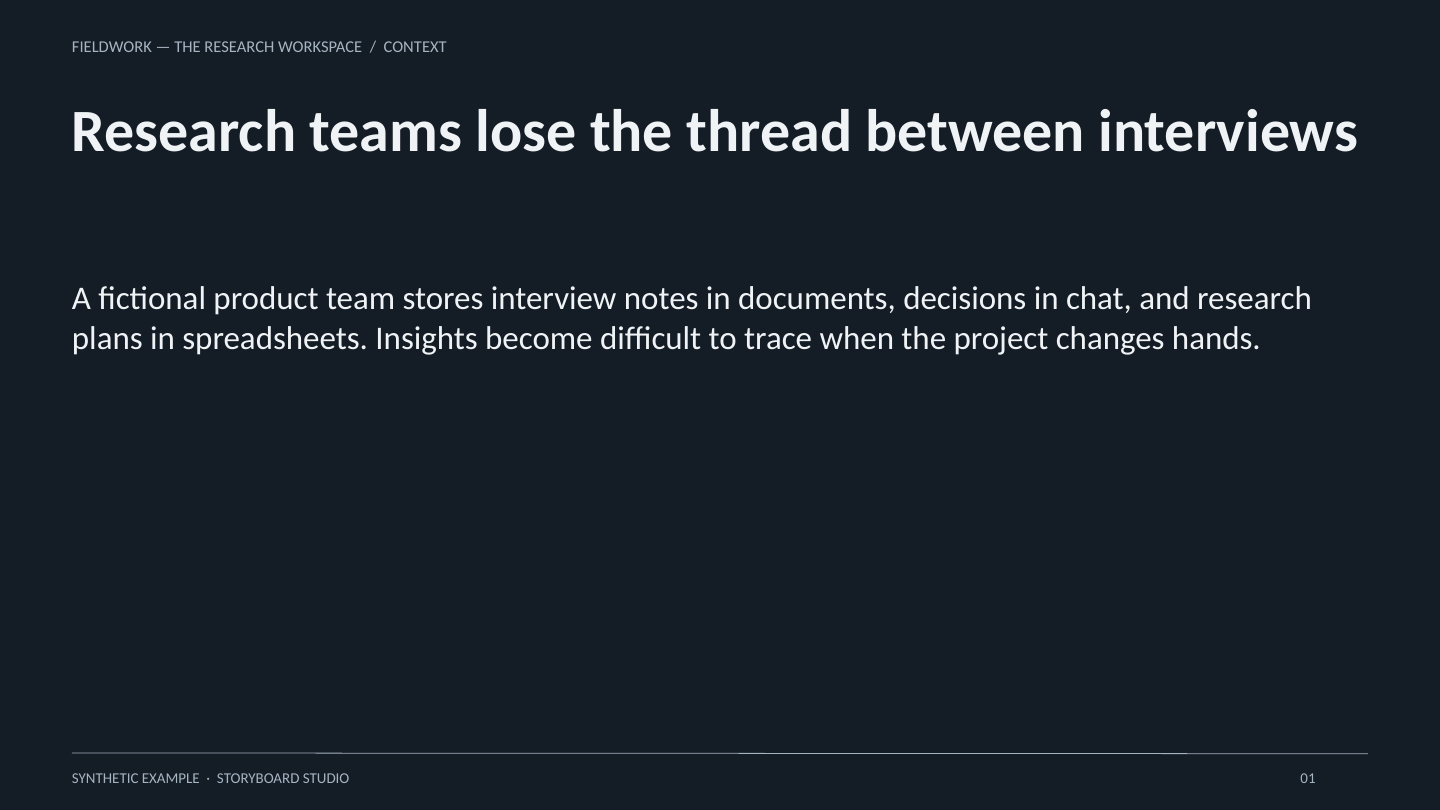
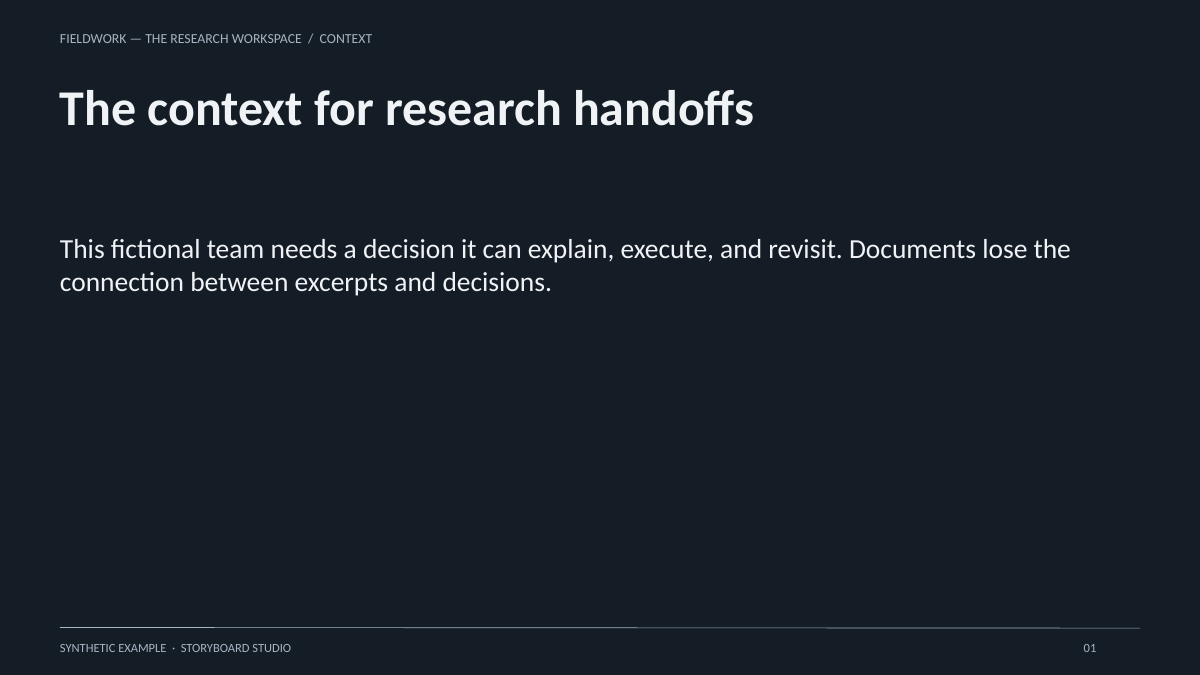
gallery: add verified native startup-pitch deck

diff --git a/gallery/native/startup-pitch/brief.md b/gallery/native/startup-pitch/brief.md
@@ -1,0 +1,35 @@
+# Fieldwork — the research workspace
+Audience: Seed investment committee
+Objective: Approve a bounded next step for research handoffs
+Owner: Research lead
+Next action: Approve the pilot and inspect the review evidence
+Theme: midnight
+Synthetic: true
+
+## The context for research handoffs
+This fictional team needs a decision it can explain, execute, and revisit. Documents lose the connection between excerpts and decisions.
+Notes: Synthetic scenario. Figures, roles and organizations are invented to demonstrate the renderer.
+
+## The problem is the missing decision boundary
+Documents lose the connection between excerpts and decisions.
+
+## Evidence to gather before committing
+Observe the current workflow, record its limitations, and review source excerpts with the accountable owner.
+
+## Two paths make the trade-off explicit
+### Improve document templates
+Faster to start, with the current operating limitations.
+### Build a focused research workspace
+More focused initial work, with a clearer review boundary.
+
+## Recommend the bounded path
+Pilot one handoff workflow before expanding integrations.
+
+## Risks to review before expansion
+Keep the scope narrow. Check whether the new workflow adds manual effort or moves risk elsewhere. Record the unresolved question instead of treating an assumption as a finding.
+
+## Next action: approve the pilot and own the review
+### Owner
+Research lead owns the first milestone and its evidence.
+### Review
+Inspect the pilot evidence before approving the next stage.

diff --git a/gallery/native/startup-pitch/README.md b/gallery/native/startup-pitch/README.md
@@ -1,23 +1,9 @@
-# Fieldwork — synthetic startup pitch
+# Fieldwork — the research workspace
 
-Generated by the native Rust compiler, without Python or a provider.
-This fictional research product is not a customer case study or investment claim.
+Synthetic demonstration generated with the native Rust compiler. Not real client work.
 
-- [Author-owned input](../../../examples/startup-pitch.md)
-- [Editable PowerPoint](deck.pptx)
-- [Native story](deck.story.json)
-- [Narrative Receipt](deck.receipt.json)
-- [Doctor findings](diagnostics.json)
-- [LibreOffice-rendered first slide](slide-01.png)
-- [Shared-geometry SVG preview](slide-01.svg)
+[Brief](brief.md) · [Authored typed input](input.story.json) · [PPTX](deck.pptx) · [Story](deck.story.json) · [Receipt](deck.receipt.json) · [Diagnostics](diagnostics.json)
 
-```sh
-cargo build --release
-./target/release/storyboard build examples/startup-pitch.md \
-  -o gallery/native/startup-pitch/deck.pptx --force
-./target/release/storyboard verify gallery/native/startup-pitch/deck.receipt.json
-```
+Theme: **midnight** · 9 slides.
 
-The PNG is a real LibreOffice 26.8.0.3 PDF render on macOS 26.6. This confirms
-that the 7-slide package imports and renders in that viewer; it does not certify
-interactive editing in PowerPoint, Keynote or Google Slides.
+Reproduce: `storyboard render gallery/native/startup-pitch/input.story.json -o deck.pptx`.
